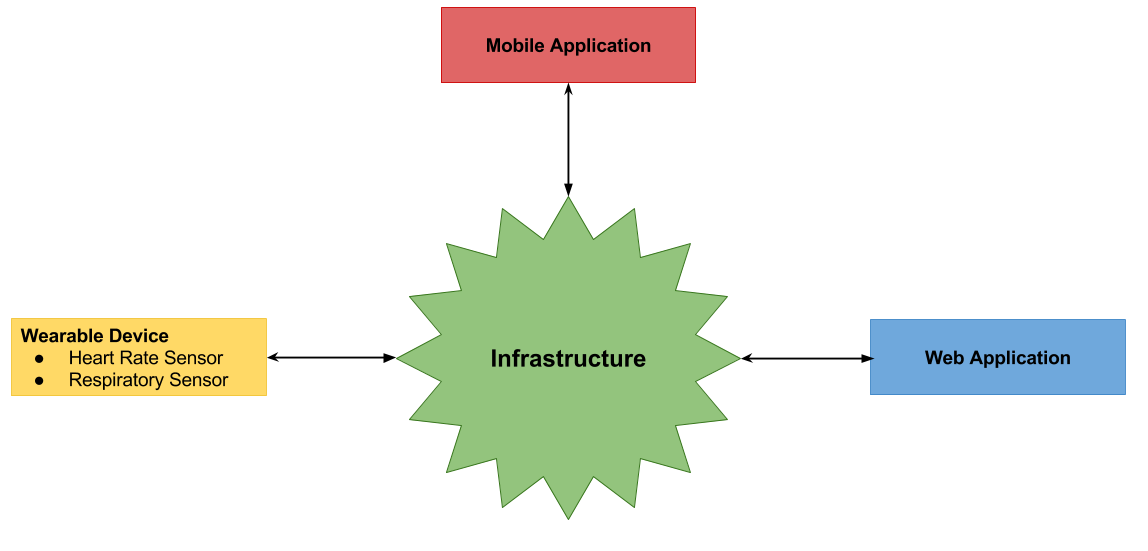
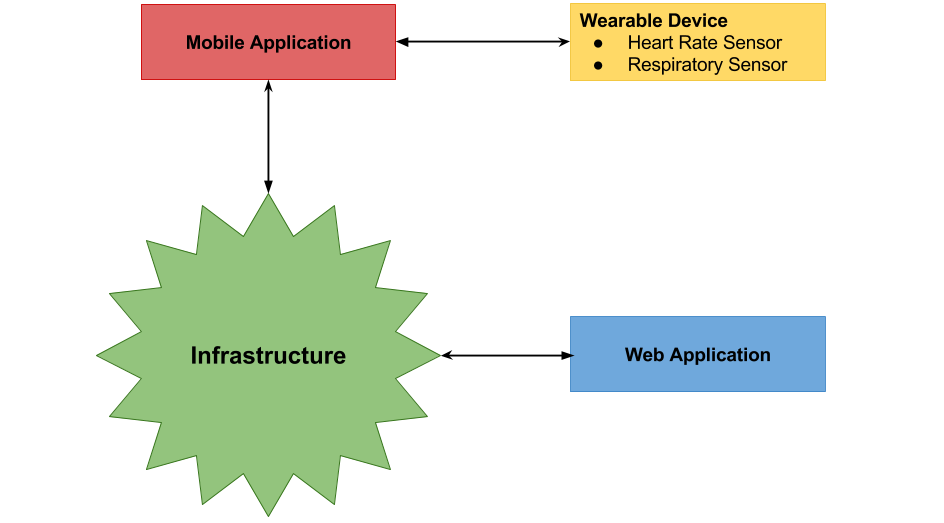
Improve report

diff --git a/SLIP/report.md b/SLIP/report.md
@@ -26,6 +26,18 @@ Taking the above requirements into consideration, a simple explanation of the re
 The design process was done in steps with review of each step against both the functional and non-functional requirements. I will outline the design process below.
 
 ## Understand the devices
-Firstly, it is essential to understand what kind of devices will need to be able to connect and access the infrastructure. The figure below outlines the different devices required to interact with the infrastructure.
+Firstly, it is essential to understand what kind of devices will need to be able to connect and access the infrastructure. The figure below outlines the different devices required to interact with the infrastructure. There are two devices required to interact with the infrastructure, both with different application programming interface.
+
 ![Design Devices](./design_1.png)
+
+### Device Requirements
+Firstly, the mobile application requires to communicate with the hardware device in order to relay sensory readings to the infrastructure. The communication protocol between the smart phone and the wearable is over Bluetooth. The underlying application implementation is in Java.
+
+Secondly, the web application uses HTML, CSS and Javascript and communicates through the HTTP protocol.
+
+Therefore, a sensible communication protocol between the mobile application and the web application is HTTP, providing a standardized implementation and widespread adoption rate in the industry. Consequently, the infrastructure implementation is required to implement its interface to support HTTP.
+
+
+
+
 
